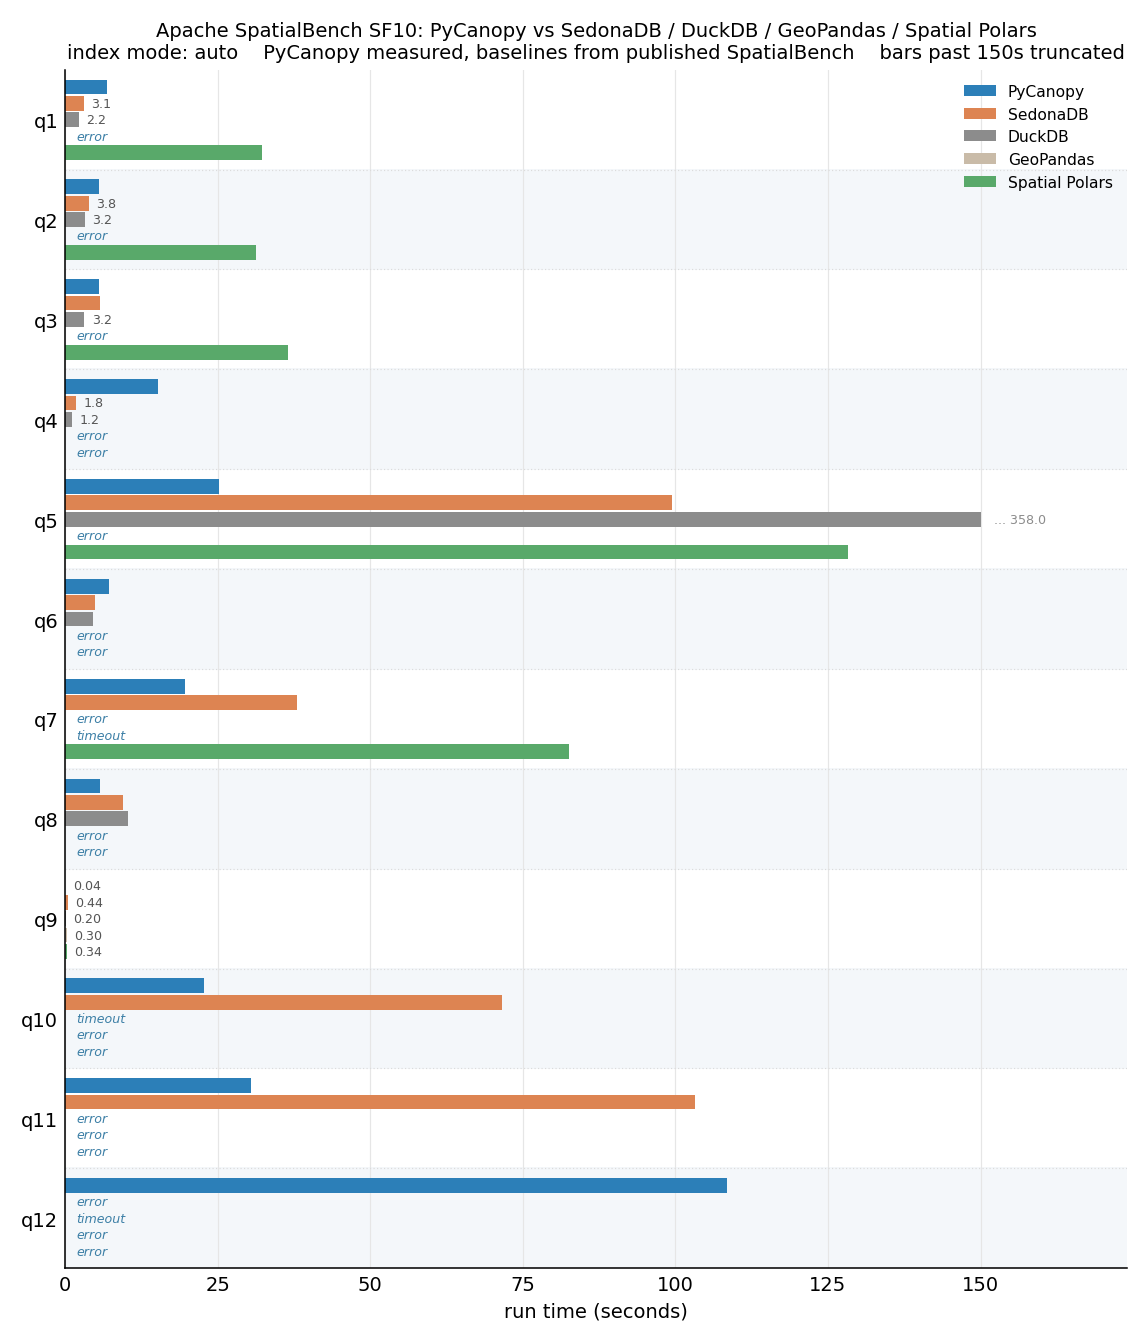
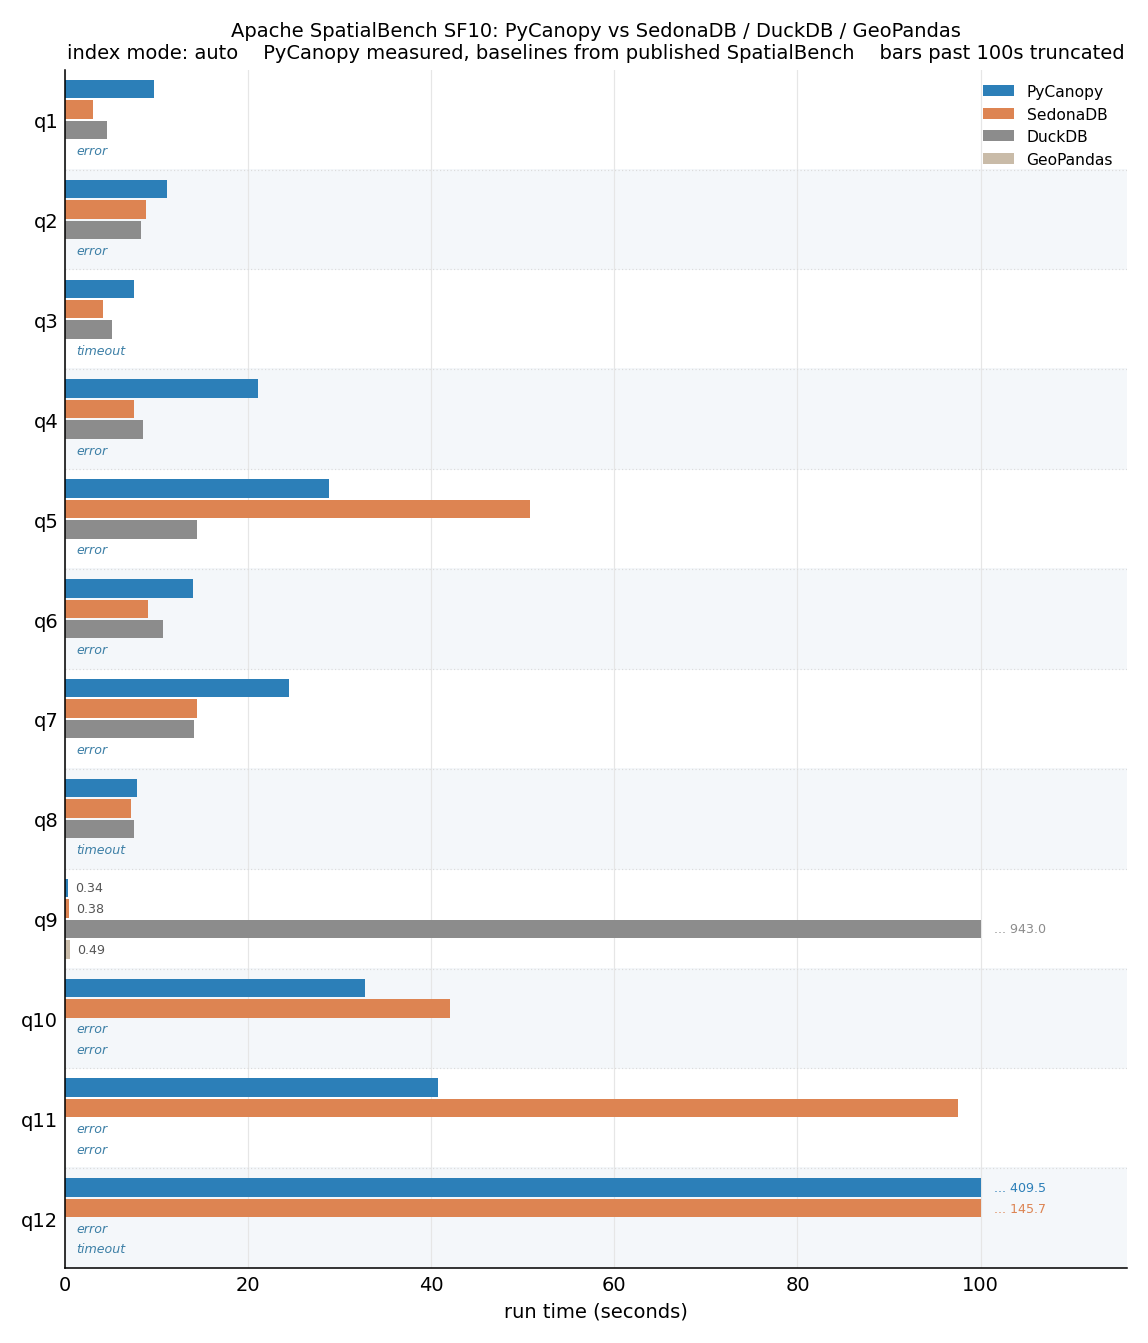
Prefetch each query's SpatialBench tables in one parallel collect_all Wired into the seven multi-table queries; the cache is per-subprocess so reads stay cold.

diff --git a/bench/spatial_bench/utils.py b/bench/spatial_bench/utils.py
@@ -32,36 +32,36 @@ _ASSETS_DIR = Path(__file__).resolve().parents[2] / "assets"
 # Source: apache/sedona-spatialbench docs/single-node-benchmarks.md, m7i.2xlarge
 # (8 vCPU, 32 GB), 1200 s timeout, cold start (DuckDB external file cache disabled),
 # runtimes include full data loading. A value is seconds, "TIMEOUT", or "ERROR"
-# (no bar rendered, status annotated on the chart). 
+# (no bar rendered, status annotated on the chart).
 PUBLISHED_ENGINES = ("SedonaDB", "DuckDB", "GeoPandas")
 
 PUBLISHED: dict[int, dict[str, dict[str, float | str]]] = {
     1: {
-        "q1":  {"SedonaDB": 0.66,  "DuckDB": 0.96,   "GeoPandas": 12.78},
-        "q2":  {"SedonaDB": 8.07,  "DuckDB": 9.95,   "GeoPandas": 20.74},
-        "q3":  {"SedonaDB": 0.80,  "DuckDB": 1.17,   "GeoPandas": 13.59},
-        "q4":  {"SedonaDB": 8.41,  "DuckDB": 9.83,   "GeoPandas": 25.24},
-        "q5":  {"SedonaDB": 5.10,  "DuckDB": 1.80,   "GeoPandas": 47.08},
-        "q6":  {"SedonaDB": 8.59,  "DuckDB": 9.36,   "GeoPandas": 24.43},
-        "q7":  {"SedonaDB": 1.66,  "DuckDB": 1.82,   "GeoPandas": 137.00},
-        "q8":  {"SedonaDB": 1.10,  "DuckDB": 1.08,   "GeoPandas": 16.08},
-        "q9":  {"SedonaDB": 0.23,  "DuckDB": 50.15,  "GeoPandas": 0.28},
+        "q1": {"SedonaDB": 0.66, "DuckDB": 0.96, "GeoPandas": 12.78},
+        "q2": {"SedonaDB": 8.07, "DuckDB": 9.95, "GeoPandas": 20.74},
+        "q3": {"SedonaDB": 0.80, "DuckDB": 1.17, "GeoPandas": 13.59},
+        "q4": {"SedonaDB": 8.41, "DuckDB": 9.83, "GeoPandas": 25.24},
+        "q5": {"SedonaDB": 5.10, "DuckDB": 1.80, "GeoPandas": 47.08},
+        "q6": {"SedonaDB": 8.59, "DuckDB": 9.36, "GeoPandas": 24.43},
+        "q7": {"SedonaDB": 1.66, "DuckDB": 1.82, "GeoPandas": 137.00},
+        "q8": {"SedonaDB": 1.10, "DuckDB": 1.08, "GeoPandas": 16.08},
+        "q9": {"SedonaDB": 0.23, "DuckDB": 50.15, "GeoPandas": 0.28},
         "q10": {"SedonaDB": 18.79, "DuckDB": 207.84, "GeoPandas": 46.13},
         "q11": {"SedonaDB": 32.98, "DuckDB": "TIMEOUT", "GeoPandas": 51.01},
-        "q12": {"SedonaDB": 14.55, "DuckDB": "ERROR",   "GeoPandas": "TIMEOUT"},
+        "q12": {"SedonaDB": 14.55, "DuckDB": "ERROR", "GeoPandas": "TIMEOUT"},
     },
     10: {
-        "q1":  {"SedonaDB": 3.04,   "DuckDB": 4.58,   "GeoPandas": "ERROR"},
-        "q2":  {"SedonaDB": 8.89,   "DuckDB": 8.26,   "GeoPandas": "ERROR"},
-        "q3":  {"SedonaDB": 4.09,   "DuckDB": 5.17,   "GeoPandas": "TIMEOUT"},
-        "q4":  {"SedonaDB": 7.52,   "DuckDB": 8.51,   "GeoPandas": "ERROR"},
-        "q5":  {"SedonaDB": 50.81,  "DuckDB": 14.40,  "GeoPandas": "ERROR"},
-        "q6":  {"SedonaDB": 9.11,   "DuckDB": 10.67,  "GeoPandas": "ERROR"},
-        "q7":  {"SedonaDB": 14.44,  "DuckDB": 14.03,  "GeoPandas": "ERROR"},
-        "q8":  {"SedonaDB": 7.24,   "DuckDB": 7.57,   "GeoPandas": "TIMEOUT"},
-        "q9":  {"SedonaDB": 0.38,   "DuckDB": 942.98, "GeoPandas": 0.49},
-        "q10": {"SedonaDB": 42.02,  "DuckDB": "ERROR", "GeoPandas": "ERROR"},
-        "q11": {"SedonaDB": 97.52,  "DuckDB": "ERROR", "GeoPandas": "ERROR"},
+        "q1": {"SedonaDB": 3.04, "DuckDB": 4.58, "GeoPandas": "ERROR"},
+        "q2": {"SedonaDB": 8.89, "DuckDB": 8.26, "GeoPandas": "ERROR"},
+        "q3": {"SedonaDB": 4.09, "DuckDB": 5.17, "GeoPandas": "TIMEOUT"},
+        "q4": {"SedonaDB": 7.52, "DuckDB": 8.51, "GeoPandas": "ERROR"},
+        "q5": {"SedonaDB": 50.81, "DuckDB": 14.40, "GeoPandas": "ERROR"},
+        "q6": {"SedonaDB": 9.11, "DuckDB": 10.67, "GeoPandas": "ERROR"},
+        "q7": {"SedonaDB": 14.44, "DuckDB": 14.03, "GeoPandas": "ERROR"},
+        "q8": {"SedonaDB": 7.24, "DuckDB": 7.57, "GeoPandas": "TIMEOUT"},
+        "q9": {"SedonaDB": 0.38, "DuckDB": 942.98, "GeoPandas": 0.49},
+        "q10": {"SedonaDB": 42.02, "DuckDB": "ERROR", "GeoPandas": "ERROR"},
+        "q11": {"SedonaDB": 97.52, "DuckDB": "ERROR", "GeoPandas": "ERROR"},
         "q12": {"SedonaDB": 145.66, "DuckDB": "ERROR", "GeoPandas": "TIMEOUT"},
     },
 }
@@ -134,6 +134,20 @@ class SpatialBenchTables:
     index_mode: str = "eager"
     _cache: dict[str, pl.DataFrame] | None = None
 
+    def parallel_fetch(self, needs: dict[str, list[str] | None]) -> None:
+        """Fetch several tables concurrently into the cache, with projection pushdown.
+
+        Args:
+            needs: Map of table name to the columns to fetch, or None for all columns.
+        """
+        if self._cache is None:
+            self._cache = {}
+        pending = {name: cols for name, cols in needs.items() if name not in self._cache}
+        if not pending:
+            return
+        frames = pl.collect_all([self.scan(name, cols) for name, cols in pending.items()])
+        self._cache.update(zip(pending, frames, strict=True))
+
     def table(self, name: str, columns: list[str] | None = None) -> pl.DataFrame:
         """Return table ``name``, reading and caching it on first access.
 
@@ -146,10 +160,10 @@ class SpatialBenchTables:
         """
         if self._cache is None:
             self._cache = {}
-        key = name if columns is None else f"{name}:{','.join(columns)}"
-        if key not in self._cache:
-            self._cache[key] = read_table(self.data_dir, name, columns)
-        return self._cache[key]
+        if name not in self._cache:
+            self._cache[name] = read_table(self.data_dir, name, columns)
+        df = self._cache[name]
+        return df.select(columns) if columns is not None else df
 
     def scan(self, name: str, columns: list[str] | None = None) -> pl.LazyFrame:
         """Lazily scan table ``name`` (uncached, for late-materialization access).
@@ -414,7 +428,11 @@ def measure_query(
     avg = sum(times) / len(times)
     print(
         f"[testcase] completed {query.id} using pycanopy in {avg:.2f}s"
-        + (f" (avg of {len(times)} runs: {', '.join(f'{t:.2f}s' for t in times)})" if len(times) > 1 else ""),
+        + (
+            f" (avg of {len(times)} runs: {', '.join(f'{t:.2f}s' for t in times)})"
+            if len(times) > 1
+            else ""
+        ),
         flush=True,
     )
     return {"status": "ok", "pycanopy_seconds": round(avg, 4), "run_times": times, **out}
@@ -613,7 +631,9 @@ def run_suite(
     _preflight_dns(data_dir)
     results = {"scale_factor": scale_factor, "index_mode": index_mode, "queries": {}}
     for query in query_modules:
-        results["queries"][query.id] = measure_query(query, data_dir, index_mode, verify=verify, runs=runs)
+        results["queries"][query.id] = measure_query(
+            query, data_dir, index_mode, verify=verify, runs=runs
+        )
     sf = int(scale_factor)
     suffix = "" if index_mode == "eager" else f"_{index_mode}"
     out_path = Path(output) if output else _ASSETS_DIR / f"spatialbench_sf{sf}{suffix}.png"

diff --git a/bench/spatial_bench/__main__.py b/bench/spatial_bench/__main__.py
@@ -44,7 +44,9 @@ def load_config() -> dict:
     return cfg
 
 
-def _user_data(cfg: dict, run_id: str, scale_factor: int, index_mode: str, verify: bool, n: int) -> str:
+def _user_data(
+    cfg: dict, run_id: str, scale_factor: int, index_mode: str, verify: bool, n: int
+) -> str:
     # Substitute @@NAME@@ placeholders in bootstrap.sh for this run
     script = (_DIR / "bootstrap.sh").read_text()
     suffix = "" if index_mode == "eager" else f"_{index_mode}"
@@ -70,7 +72,9 @@ def _user_data(cfg: dict, run_id: str, scale_factor: int, index_mode: str, verif
     return script
 
 
-def _launch(ec2, ssm, cfg: dict, run_id: str, scale_factor: int, index_mode: str, verify: bool, n: int) -> str:
+def _launch(
+    ec2, ssm, cfg: dict, run_id: str, scale_factor: int, index_mode: str, verify: bool, n: int
+) -> str:
     # Launch the benchmark instance and return its id
     ami = ssm.get_parameter(Name=_SSM_AL2023)["Parameter"]["Value"]
     resp = ec2.run_instances(
@@ -242,7 +246,9 @@ def main(argv: list[str] | None = None) -> int:
     ssm = boto3.client("ssm", region_name=region)
 
     run_id = uuid.uuid4().hex[:12]
-    instance_id = _launch(ec2, ssm, cfg, run_id, args.scale_factor, args.index_mode, args.verify, args.n)
+    instance_id = _launch(
+        ec2, ssm, cfg, run_id, args.scale_factor, args.index_mode, args.verify, args.n
+    )
     try:
         ok = _wait_for_success(s3, ec2, cfg, run_id, instance_id)
         paths = _download(s3, cfg, run_id)

diff --git a/bench/spatial_bench/_onbox.py b/bench/spatial_bench/_onbox.py
@@ -24,12 +24,8 @@ def _build_parser() -> argparse.ArgumentParser:
     index_group.add_argument(
         "--index-eager", action="store_const", const="eager", dest="index_mode"
     )
-    index_group.add_argument(
-        "--index-auto", action="store_const", const="auto", dest="index_mode"
-    )
-    index_group.add_argument(
-        "--index-none", action="store_const", const="none", dest="index_mode"
-    )
+    index_group.add_argument("--index-auto", action="store_const", const="auto", dest="index_mode")
+    index_group.add_argument("--index-none", action="store_const", const="none", dest="index_mode")
     parser.set_defaults(index_mode="auto")
     parser.add_argument("--n", type=int, default=3, metavar="N")
     parser.add_argument("--verify", action="store_true")

diff --git a/bench/spatial_bench/queries/q05.py b/bench/spatial_bench/queries/q05.py
@@ -15,6 +15,11 @@ title = "Monthly travel hull area for repeat customers"
 
 MIN_TRIPS = 5
 
+TABLES_NEEDED = {
+    "trip": ["t_custkey", "t_dropoffloc", "t_pickuptime"],
+    "customer": ["c_custkey", "c_name"],
+}
+
 compare = {
     "keys": ["c_custkey", "pickup_month"],
     "values": ["monthly_travel_hull_area"],
@@ -23,6 +28,7 @@ compare = {
 
 
 def pycanopy(tables) -> pl.DataFrame:
+    tables.parallel_fetch(TABLES_NEEDED)
     trip = tables.table("trip", ["t_custkey", "t_dropoffloc", "t_pickuptime"])
     cust = tables.table("customer", ["c_custkey", "c_name"])
 

diff --git a/bench/spatial_bench/queries/q11.py b/bench/spatial_bench/queries/q11.py
@@ -13,10 +13,16 @@ from pycanopy import wkb_points_to_xy
 id = "q11"
 title = "Count trips that cross between different zones"
 
+TABLES_NEEDED = {
+    "trip": ["t_tripkey", "t_pickuploc", "t_dropoffloc"],
+    "zone": ["z_zonekey", "z_boundary"],
+}
+
 compare = {"keys": [], "values": ["cross_zone_trip_count"]}
 
 
 def pycanopy(tables) -> pl.DataFrame:
+    tables.parallel_fetch(TABLES_NEEDED)
     trip = tables.table("trip", ["t_tripkey", "t_pickuploc", "t_dropoffloc"])
     zone = tables.table("zone", ["z_zonekey", "z_boundary"])
     sf = tables.polygon_frame(zone, "z_boundary")

diff --git a/bench/spatial_bench/queries/q12.py b/bench/spatial_bench/queries/q12.py
@@ -28,6 +28,11 @@ title = "5 nearest buildings to each trip pickup"
 
 K = 5
 
+TABLES_NEEDED = {
+    "building": ["b_buildingkey", "b_name", "b_boundary"],
+    "trip": ["t_tripkey", "t_pickuploc"],
+}
+
 # kNN ties can pick different buildings, so the per-trip distances are compared rather
 # than building identity (the SedonaDB column is distance_to_building).
 compare = {"keys": ["t_tripkey"], "values": [("distance_to_polygon", "distance_to_building")]}
@@ -51,6 +56,7 @@ def pycanopy(tables) -> pl.LazyFrame:
         A LazyFrame scanning the sorted (t_tripkey, b_buildingkey, distance_to_polygon)
         Parquet output, which the harness streams rather than materialising in RAM.
     """
+    tables.parallel_fetch(TABLES_NEEDED)
     buildings = tables.table("building", ["b_buildingkey", "b_name", "b_boundary"])
     sf = tables.polygon_frame(buildings, "b_boundary")
 

diff --git a/bench/spatial_bench/queries/q02.py b/bench/spatial_bench/queries/q02.py
@@ -15,10 +15,13 @@ title = "Count trips starting within Coconino County zone"
 
 ZONE_NAME = "Coconino County"
 
+TABLES_NEEDED = {"zone": ["z_name", "z_boundary"], "trip": ["t_pickuploc"]}
+
 compare = {"keys": [], "values": ["trip_count_in_coconino_county"]}
 
 
 def pycanopy(tables) -> pl.DataFrame:
+    tables.parallel_fetch(TABLES_NEEDED)
     zone = tables.table("zone", ["z_name", "z_boundary"])
     target = zone.filter(pl.col("z_name") == ZONE_NAME).head(1)
     if target.height == 0:

diff --git a/bench/spatial_bench/queries/q06.py b/bench/spatial_bench/queries/q06.py
@@ -22,12 +22,15 @@ BBOX = (-112.2110, 34.4197, -111.3110, 35.3197)
 
 _TRIP_COLS = ["t_pickuploc", "t_totalamount", "t_pickuptime", "t_dropofftime"]
 
+TABLES_NEEDED = {"zone": ["z_zonekey", "z_name", "z_boundary"], "trip": _TRIP_COLS}
+
 # avg_distance here is AVG(t_totalamount) on both sides; avg_duration (an interval in
 # SedonaDB) is left out of the value check.
 compare = {"keys": ["z_zonekey"], "values": ["total_pickups", "avg_distance"]}
 
 
 def pycanopy(tables) -> pl.DataFrame:
+    tables.parallel_fetch(TABLES_NEEDED)
     zone = tables.table("zone", ["z_zonekey", "z_name", "z_boundary"])
     zsf = tables.polygon_frame(zone, "z_boundary")
     cand_idx = zsf.engine.range_query(*BBOX)

diff --git a/bench/spatial_bench/queries/q08.py b/bench/spatial_bench/queries/q08.py
@@ -18,10 +18,13 @@ title = "Trip pickups within ~500m of each building"
 
 THRESHOLD = 0.0045  # degrees (~500m)
 
+TABLES_NEEDED = {"building": ["b_buildingkey", "b_name", "b_boundary"], "trip": ["t_pickuploc"]}
+
 compare = {"keys": ["b_buildingkey"], "values": ["nearby_pickup_count"]}
 
 
 def pycanopy(tables) -> pl.DataFrame:
+    tables.parallel_fetch(TABLES_NEEDED)
     buildings = tables.table("building", ["b_buildingkey", "b_name", "b_boundary"])
     sf = tables.polygon_frame(buildings, "b_boundary")
 

diff --git a/bench/spatial_bench/queries/q10.py b/bench/spatial_bench/queries/q10.py
@@ -20,12 +20,15 @@ title = "Per-zone trip stats (zones with zero trips retained)"
 
 _TRIP_COLS = ["t_pickuploc", "t_pickuptime", "t_dropofftime", "t_distance"]
 
+TABLES_NEEDED = {"zone": ["z_zonekey", "z_name", "z_boundary"], "trip": _TRIP_COLS}
+
 # avg_duration is an interval in SedonaDB (Timedelta) vs float seconds here, so it is
 # left out of the value check; num_trips and avg_distance are compared.
 compare = {"keys": ["z_zonekey"], "values": ["num_trips", "avg_distance"]}
 
 
 def pycanopy(tables) -> pl.DataFrame:
+    tables.parallel_fetch(TABLES_NEEDED)
     zone = tables.table("zone", ["z_zonekey", "z_name", "z_boundary"])
     sf = tables.polygon_frame(zone, "z_boundary")
 